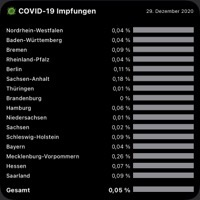
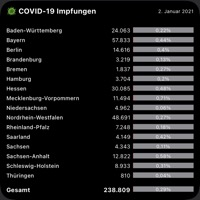
v1.2.0
- Large Widget: write percentage to the bar and show total numbers

diff --git a/number-of-covild-19-vaccinations/number-of-covild-19-vaccinations.js b/number-of-covild-19-vaccinations/number-of-covild-19-vaccinations.js
@@ -3,9 +3,11 @@
 // icon-color: red; icon-glyph: syringe;
 
 /**************
-Version 1.1.1
+Version 1.2.0
 
 Changelog:  
+  v1.2.0
+          - Large Widget: write percentage to the bar and show total numbers
   v1.1.1
           - Cache path changed
           - Allow force Update of the data
@@ -29,15 +31,12 @@ Changelog:
 // How many minutes should the cache be valid
 let cacheMinutes = 4 * 60
 
-// Set to true to show total numbers in the large widget
-const showTotalInLargeWidget = false
-
 ////////////////////////////////////////////////////////////////////////////////
 //////////////////////////         Dev Settings         ////////////////////////
 ////////////////////////////////////////////////////////////////////////////////
 
 const debug = false
-config.widgetFamily = config.widgetFamily || 'medium'
+config.widgetFamily = config.widgetFamily || 'large'
 
 ////////////////////////////////////////////////////////////////////////////////
 //////////////////////////         System Settings         /////////////////////
@@ -91,7 +90,8 @@ function creatProgress(percentage) {
   // Background Path
   context.setFillColor(Color.gray())
   const path = new Path()
-  path.addRect(new Rect(0, 0, width, h))
+  const backgroundReact = new Rect(0, 0, width, h)
+  path.addRect(backgroundReact)
   context.addPath(path)
   context.fillPath()
   
@@ -111,6 +111,11 @@ function creatProgress(percentage) {
   path1.addRect(new Rect(0, 0, path1width, h))
   context.addPath(path1)
   context.fillPath()
+  
+  context.setTextAlignedCenter()
+  context.setTextColor(Color.white())
+  context.setFont(Font.systemFont(fontSize - 1))
+  context.drawTextInRect(`${percentage.toLocaleString(Device.language())}%`, backgroundReact)
   
   return context.getImage()
 }
@@ -266,8 +271,7 @@ if (config.widgetFamily === 'large') {
     stateText.lineLimit = 1
     
     row.addSpacer()
-    const totalText = showTotalInLargeWidget ? `${parseInt(value.vaccinated).toLocaleString(Device.language())} / ` : ''
-    const quoteText = row.addText(`${totalText}${value.quote.toString().replace('.', ',')} %`)
+    const quoteText = row.addText(`${parseInt(value.vaccinated).toLocaleString(Device.language())}`)
     quoteText.font = Font.systemFont(fontSize)
     
     row.addSpacer(4)
@@ -283,8 +287,7 @@ if (config.widgetFamily === 'large') {
   stateText.font = Font.boldSystemFont(fontSize + 1)
     
   row.addSpacer()
-  const totalText = showTotalInLargeWidget ? `${parseInt(result.vaccinated).toLocaleString(Device.language())} / ` : ''
-  const quoteText = row.addText(`${totalText}${result.quote.toString().replace('.', ',')} %`)
+  const quoteText = row.addText(`${parseInt(result.vaccinated).toLocaleString(Device.language())}`)
   quoteText.font = Font.boldSystemFont(fontSize + 1)
     
   row.addSpacer(4)
